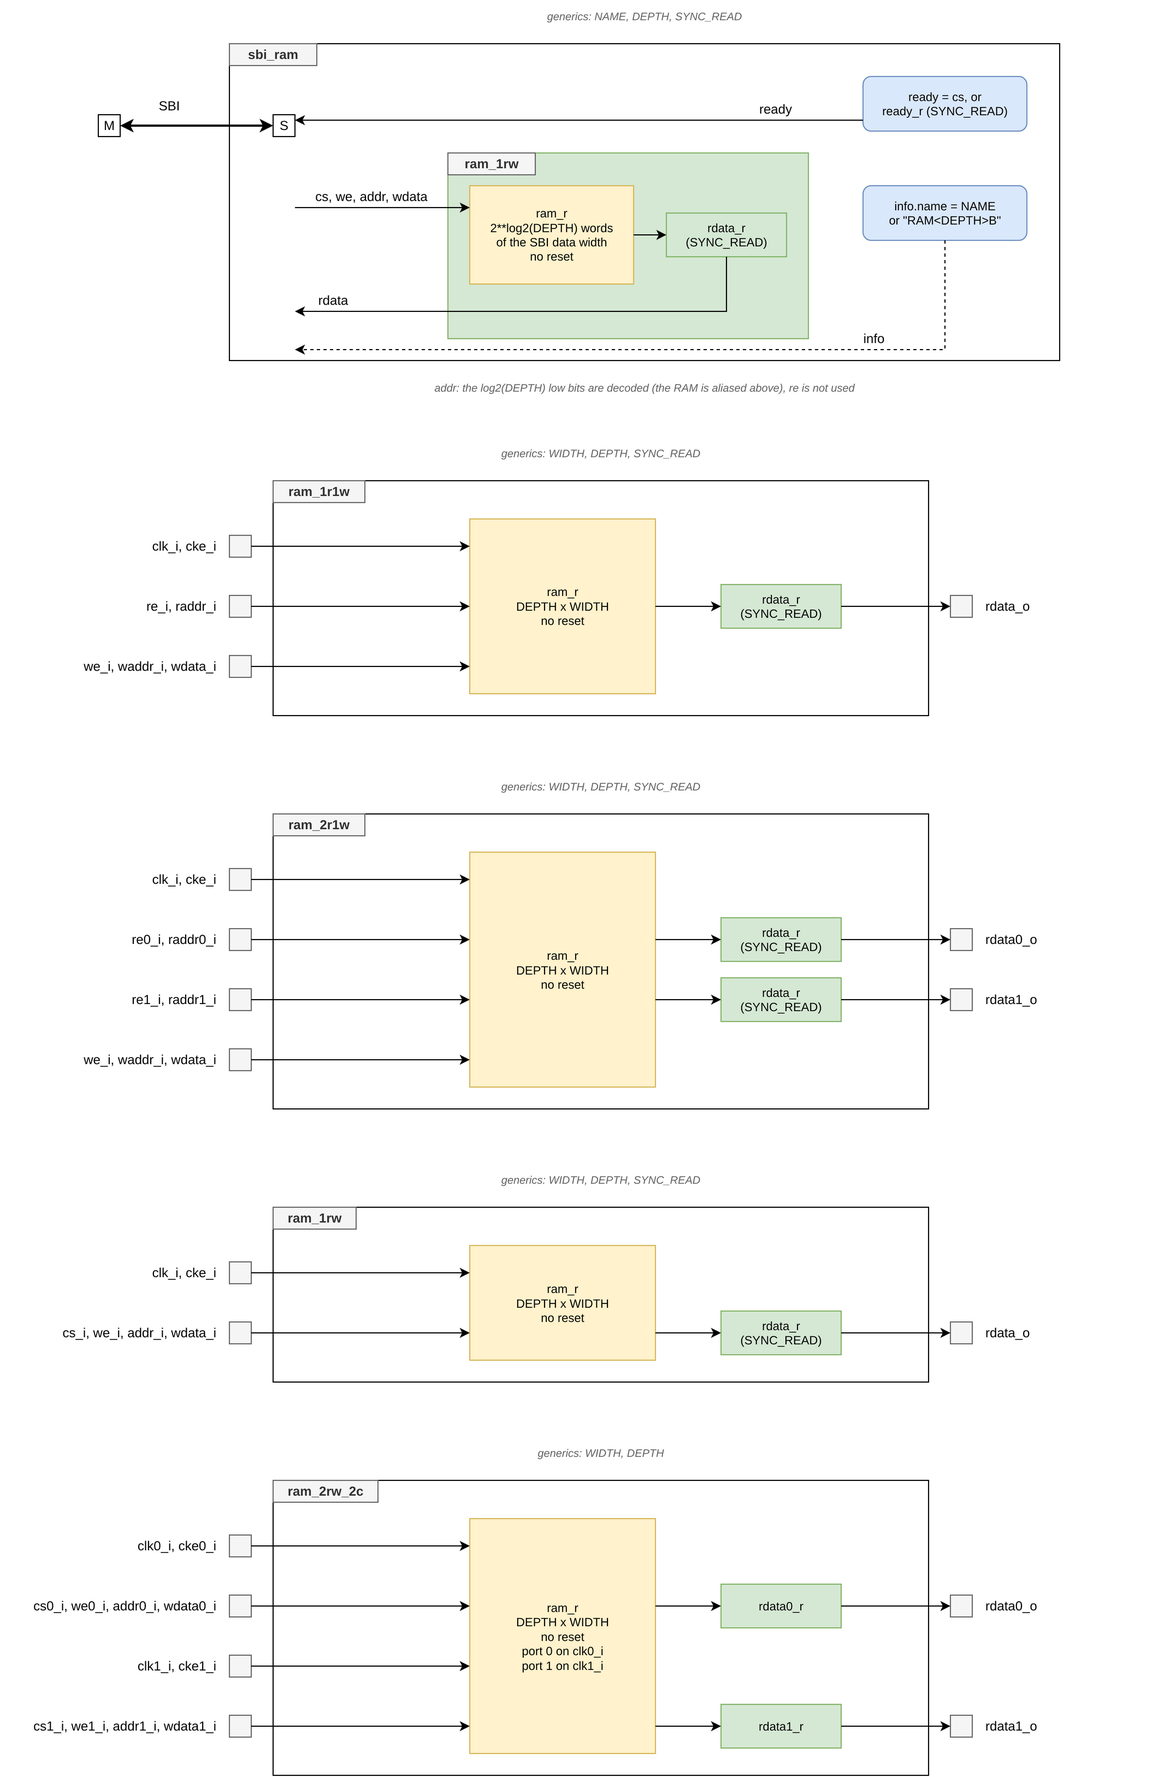
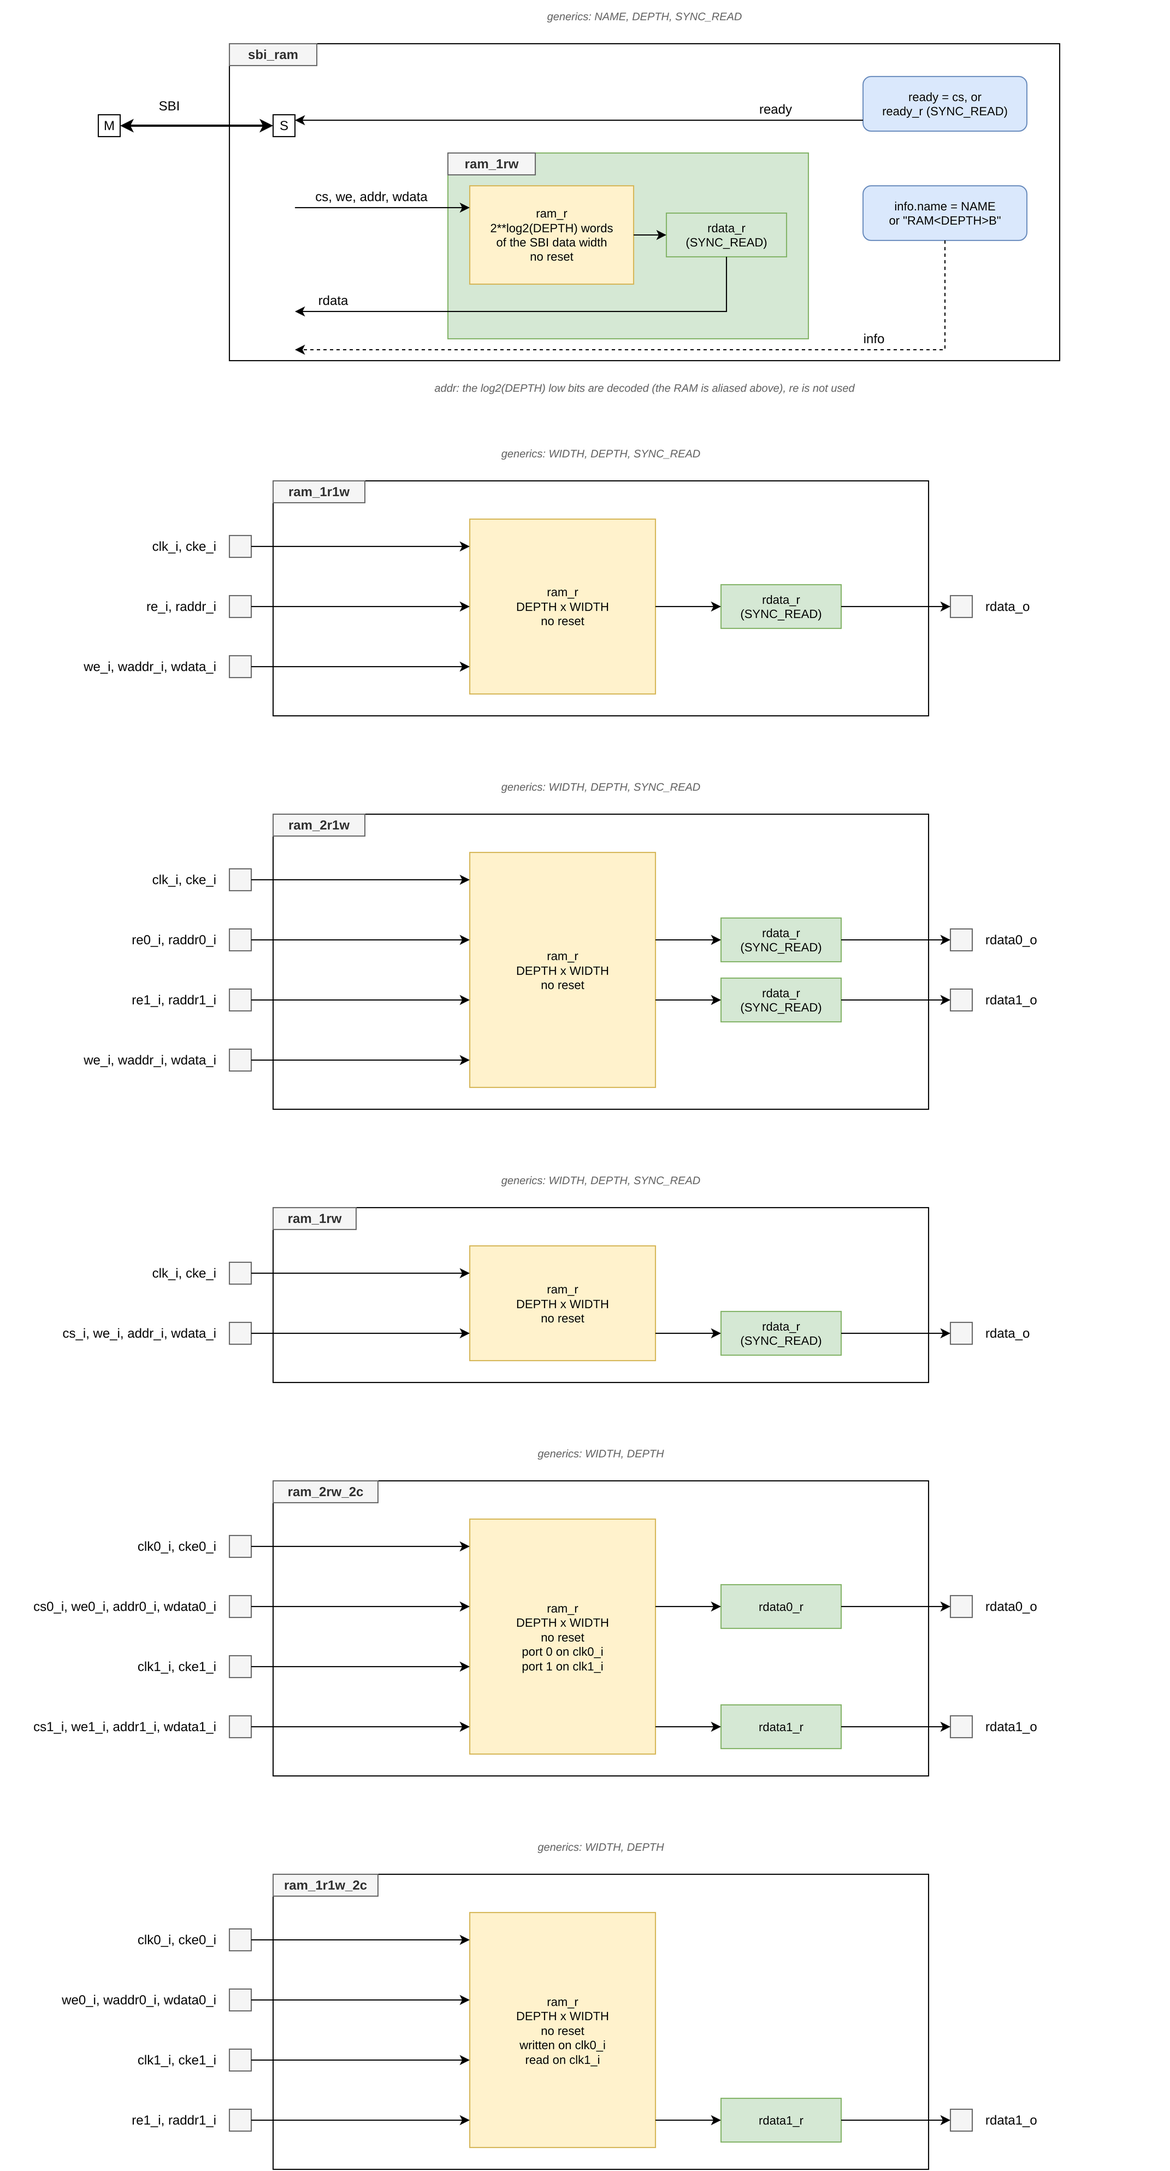
RAM - README : ram_1r1w_2c (interfaces, two processes, collision, timing constraint of the write -> read register path, figures, tb_ram_1r1w_2c scenarios and targets), collision wording of ram_2rw_2c (README and header), yosys_synth >= 1.1.1 only for syn_ram_2rw_2c_*, block diagram

diff --git a/README.md b/README.md
@@ -62,9 +62,10 @@ This IP gathers the RAMs of Asylum. They are plain VHDL arrays, written so that 
 - **`ram_2r1w`**: two read ports and one write port (a register file);
 - **`ram_1rw`**: a single port, one address for the read and the write;
 - **`sbi_ram`**: `ram_1rw` as a target of the SBI bus (the simple bus of Asylum), a data memory for a CPU;
-- **`ram_2rw_2c`**: two read / write ports, **each with its own clock** (a true dual-port block RAM), the storage of a dual-clock FIFO.
+- **`ram_1r1w_2c`**: one write port and one registered read port, **each with its own clock** (a simple dual-port block RAM), the storage of a dual-clock FIFO;
+- **`ram_2rw_2c`**: two read / write ports, **each with its own clock** (a true dual-port block RAM), for two writers on two clocks.
 
-`ram_1r1w`, `ram_2r1w` and `ram_1rw` share the same generics (`WIDTH`, `DEPTH`, `SYNC_READ`) and a clock enable; `ram_2rw_2c` has `WIDTH`, `DEPTH`, and a clock, a clock enable and a chip select per port.
+`ram_1r1w`, `ram_2r1w` and `ram_1rw` share the same generics (`WIDTH`, `DEPTH`, `SYNC_READ`) and a clock enable; `ram_1r1w_2c` and `ram_2rw_2c` have `WIDTH`, `DEPTH`, and a clock, a clock enable and a chip select per port.
 
 ## Features
 
@@ -74,12 +75,13 @@ This IP gathers the RAMs of Asylum. They are plain VHDL arrays, written so that 
 - Synchronous write on the rising edge of `clk_i`, clock enable `cke_i` on every port
 - No reset of the memory: block RAM and distributed RAM friendly
 - `sbi_ram`: data width of the SBI bus, zero wait state (`SYNC_READ = false`) or one wait state (`SYNC_READ = true`), its name in `sbi_tgt_o.info` (`NAME`, or `RAM<DEPTH>B`)
+- `ram_1r1w_2c`: write port on `clk0_i`, registered read port on `clk1_i` (unrelated clocks), one process per clock: the template every synthesis tool infers
 - `ram_2rw_2c`: two ports on two unrelated clocks, each one reads (registered, one cycle of latency) or writes one word per cycle of its clock; `rdata` unchanged by a write (no change)
 - Simulation check that `DEPTH` is a power of 2
 
 ## Block Diagram
 
-![Block diagram of sbi_ram, ram_1r1w, ram_2r1w, ram_1rw and ram_2rw_2c](doc/ram-Overview.png)
+![Block diagram of sbi_ram, ram_1r1w, ram_2r1w, ram_1rw, ram_2rw_2c and ram_1r1w_2c](doc/ram-Overview.png)
 
 ## Getting Started
 
@@ -158,7 +160,7 @@ The word width of `sbi_ram` is the width of the `wdata` field of the SBI signals
 
 ### RAMs without bus
 
-[hdl/ram_1r1w.vhd](hdl/ram_1r1w.vhd), [hdl/ram_2r1w.vhd](hdl/ram_2r1w.vhd), [hdl/ram_1rw.vhd](hdl/ram_1rw.vhd), [hdl/ram_2rw_2c.vhd](hdl/ram_2rw_2c.vhd). Every RAM has `clk_i` and `cke_i` (clock enable of the write and of the registered read), `ram_2rw_2c` one `clk<p>_i` and `cke<p>_i` per port `<p>` (0 or 1); the addresses are `std_logic_vector(log2(DEPTH)-1 downto 0)`, the data `std_logic_vector(WIDTH-1 downto 0)`.
+[hdl/ram_1r1w.vhd](hdl/ram_1r1w.vhd), [hdl/ram_2r1w.vhd](hdl/ram_2r1w.vhd), [hdl/ram_1rw.vhd](hdl/ram_1rw.vhd), [hdl/ram_2rw_2c.vhd](hdl/ram_2rw_2c.vhd), [hdl/ram_1r1w_2c.vhd](hdl/ram_1r1w_2c.vhd). Every RAM has `clk_i` and `cke_i` (clock enable of the write and of the registered read), `ram_2rw_2c` one `clk<p>_i` and `cke<p>_i` per port `<p>` (0 or 1); the addresses are `std_logic_vector(log2(DEPTH)-1 downto 0)`, the data `std_logic_vector(WIDTH-1 downto 0)`.
 
 | Name | Direction | RAM | Description |
 |------|-----------|-----|-------------|
@@ -168,6 +170,8 @@ The word width of `sbi_ram` is the width of the `wdata` field of the SBI signals
 | `we_i`, `waddr_i`, `wdata_i` | in | `ram_1r1w`, `ram_2r1w` | Write port: write enable, address, data |
 | `cs_i`, `we_i` | in | `ram_1rw` | Chip select, write enable: write when `cs_i = we_i = 1`, registered read when `cs_i = 1` and `we_i = 0` |
 | `addr_i`, `wdata_i`, `rdata_o` | in, in, out | `ram_1rw` | Address of the read and of the write, write data, read data |
+| `clk0_i`, `cke0_i`, `we0_i`, `waddr0_i`, `wdata0_i` | in | `ram_1r1w_2c` | Write port: clock, clock enable, write enable, address, data |
+| `clk1_i`, `cke1_i`, `re1_i`, `raddr1_i`, `rdata1_o` | in (`rdata1_o` out) | `ram_1r1w_2c` | Read port: clock, clock enable, read enable, address, registered read data |
 | `clk0_i`, `cke0_i` | in | `ram_2rw_2c` | Clock and clock enable of port 0 |
 | `cs0_i`, `we0_i` | in | `ram_2rw_2c` | Chip select, write enable of port 0: write when `cs0_i = we0_i = 1`, registered read when `cs0_i = 1` and `we0_i = 0` |
 | `addr0_i`, `wdata0_i`, `rdata0_o` | in, in, out | `ram_2rw_2c` | Address, write data, registered read data of port 0 |
@@ -177,9 +181,9 @@ The word width of `sbi_ram` is the width of the `wdata` field of the SBI signals
 
 | Name | Type | Default | Description |
 |------|------|---------|-------------|
-| `WIDTH` | natural | `32` | `ram_1r1w`, `ram_2r1w`, `ram_1rw`, `ram_2rw_2c`: word width in bits |
+| `WIDTH` | natural | `32` | `ram_1r1w`, `ram_2r1w`, `ram_1rw`, `ram_2rw_2c`, `ram_1r1w_2c`: word width in bits |
 | `DEPTH` | natural | `32` (`sbi_ram`: `256`) | Number of words, a power of 2 (simulation assertion of severity `error` otherwise) |
-| `SYNC_READ` | boolean | `false` | `false`: combinational read; `true`: registered read (`sbi_ram`: one wait state). Not on `ram_2rw_2c` (always registered) |
+| `SYNC_READ` | boolean | `false` | `false`: combinational read; `true`: registered read (`sbi_ram`: one wait state). Not on `ram_2rw_2c` and `ram_1r1w_2c` (always registered) |
 | `NAME` | string | `""` | `sbi_ram` only: name in `sbi_tgt_o.info`; `""` gives `RAM<DEPTH>B` (e.g. `RAM256B`) |
 
 The address has `log2(DEPTH)` bits (rounded down): with a `DEPTH` that is not a power of 2, the words `2**log2(DEPTH)` to `DEPTH-1` cannot be addressed (`sbi_ram` instantiates `2**log2(DEPTH)` words).
@@ -198,6 +202,8 @@ Figures of the `syn_*` targets (`make nonreg_syn`, see [Targets](#targets)): eac
 | `syn_ram_1rw_256x8b_read_sync` | 2 | 32 | 8 | 0 | 0 | 0 | 0 | 79441.19 | 21.164 |
 | `syn_sbi_ram_32x8b_read_async` | 1 | 4 | 0 | 0 | 0 | 0 | 0 | 10013.35 | 2.668 |
 | `syn_sbi_ram_256x8b_read_sync` | 4 | 32 | 9 | 0 | 0 | 0 | 0 | 79422.42 | 21.159 |
+| `syn_ram_1r1w_2c_32x32b` | 2 | 24 | 32 | 0 | 0 | 0 | 0 | 40963.00 | 10.913 |
+| `syn_ram_1r1w_2c_256x8b` | 13 | 48 | 8 | 0 | 0 | 0 | 0 | 81109.00 | 21.608 |
 | `syn_ram_2rw_2c_32x32b` ⁴ | 4 | 0 | 0 | 0 | 0 | 1 | 0 | — | — |
 | `syn_ram_2rw_2c_256x8b` ⁴ | 4 | 0 | 0 | 0 | 0 | 0.5 | 0 | — | — |
 
@@ -207,7 +213,7 @@ Figures of the `syn_*` targets (`make nonreg_syn`, see [Targets](#targets)): eac
 
 ³ Area in thousands of NAND2 gate equivalents (`sky130_fd_sc_hd__nand2_1` = 3.7536 µm²).
 
-⁴ `ram_2rw_2c`: on Artix-7 the memory is one true dual-port block RAM (`RAMB18E1` for 256x8, `RAMB36E1` for 32x32, the BRAM column counts RAMB36 equivalents), its two ports on the two clocks; the 4 LUTs are the `INV` / enables of the ports. In the sky130 flow a memory written on two clocks cannot become flip-flops (a flip-flop has one clock): it needs a dual-port SRAM macro, which the flow does not have, so the memory stays a `$mem_v2` cell of unknown area (no figure). The GHDL plugin gives the second write port a priority over the first one, which Yosys 0.33 only accepts between ports of the same clock: the `syn_*` targets need `asylum:utils:yosys_synth` >= 1.1.1 of [asylum-utils-generators](https://github.com/deuskane/asylum-utils-generators), which clears this priority after the GHDL import.
+⁴ `ram_2rw_2c`: on Artix-7 the memory is one true dual-port block RAM (`RAMB18E1` for 256x8, `RAMB36E1` for 32x32, the BRAM column counts RAMB36 equivalents), its two ports on the two clocks; the 4 LUTs are the `INV` / enables of the ports. In the sky130 flow a memory written on two clocks cannot become flip-flops (a flip-flop has one clock): it needs a dual-port SRAM macro, which the flow does not have, so the memory stays a `$mem_v2` cell of unknown area (no figure; `yosys_synth.py` prints a `WARNING` with the cells of unknown area). The GHDL plugin gives the second write port a priority over the first one, which Yosys 0.33 only accepts between ports of the same clock: the `syn_ram_2rw_2c_*` targets, and only them, need `asylum:utils:yosys_synth` >= 1.1.1 of [asylum-utils-generators](https://github.com/deuskane/asylum-utils-generators), which clears this priority after the GHDL import. `ram_1r1w_2c` (one write port) needs none of this: Yosys maps it as `ram_1r1w` with a registered read (LUTRAM and the read register on Artix-7, flip-flops in sky130).
 
 ## Theory of Operation
 
@@ -219,6 +225,7 @@ Figures of the `syn_*` targets (`make nonreg_syn`, see [Targets](#targets)): eac
 | [hdl/ram_2r1w.vhd](hdl/ram_2r1w.vhd) | `ram_2r1w` | Two read ports, one write port |
 | [hdl/ram_1rw.vhd](hdl/ram_1rw.vhd) | `ram_1rw` | Single port |
 | [hdl/ram_2rw_2c.vhd](hdl/ram_2rw_2c.vhd) | `ram_2rw_2c` | Two read / write ports, one clock per port |
+| [hdl/ram_1r1w_2c.vhd](hdl/ram_1r1w_2c.vhd) | `ram_1r1w_2c` | One write port, one registered read port, one clock per port |
 | [hdl/sbi_ram.vhd](hdl/sbi_ram.vhd) | `sbi_ram` | `ram_1rw` on the SBI bus, ready logic, target name |
 | [hdl/ram_pkg.vhd](hdl/ram_pkg.vhd) | `ram_pkg` | Components |
 
@@ -243,9 +250,15 @@ Figures of the `syn_*` targets (`make nonreg_syn`, see [Targets](#targets)): eac
 - The two clocks may be unrelated: each port only depends on its own clock. The read data of a port change on a rising edge of its clock only (checked by the testbench).
 - Simultaneous access of the **same address** by both ports (the user avoids it):
   - write on both ports at the same time: in simulation the write of port 1 wins (last assignment of the process); on a block RAM the word is undefined;
-  - read on one port while the other one writes the same word: in simulation the read returns the old word; on a block RAM the read data are undefined (collision).
+  - read on one port while the other one writes the same word: in simulation the read returns the old word; on a block RAM the read data are undefined (and may be metastable: the path from the RAM to the read register crosses the clock domains), the word written is kept when the writing port does not read (no change mode, as here).
 - A read during a write of the other port at another address returns the stored word (scenario `read_during_write`).
-- `fifo_async` of [asylum-component-fifo](https://github.com/deuskane/asylum-component-fifo) uses port 0 to write on the write clock and port 1 to read on the read clock, and never reads a word that is being written.
+- With a single writer, use `ram_1r1w_2c` (below): simpler, and the template every tool infers.
+
+### `ram_1r1w_2c` (two clocks, one writer)
+
+- Two processes: the write process on `clk0_i` writes `wdata0_i` at `waddr0_i` when `cke0_i = we0_i = 1` (the only driver of `ram_r`); the read process on `clk1_i` loads `ram_r(raddr1_i)` into `rdata1_r` when `cke1_i = re1_i = 1`, `rdata1_o` is held otherwise. The simple dual-port template of the synthesis tools (one write clock, one read clock).
+- Read of the address written at the same time (collision): the old word in simulation; on a block RAM or a LUTRAM the read data are undefined and may be metastable, the word written is kept. A user that may read a word being written discards the read data (`fifo_async` of [asylum-component-fifo](https://github.com/deuskane/asylum-component-fifo): while the FIFO is empty it reads the address of the next write, with `m_axis_tvalid_o = 0`, and reads it again once the write is seen through its synchronizers).
+- Timing: the path from the RAM (written on `clk0_i`) to `rdata1_r` (on `clk1_i`) crosses the clock domains: declare it as a false path, or as max delay of one `clk1_i` period, as the user's protocol allows (in `fifo_async`, a word is read at least one read clock period after its write).
 
 ### `sbi_ram`
 
@@ -272,6 +285,8 @@ This IP has no software-visible registers: every SBI address of `sbi_ram` below 
 | [sim/ram/tb_ram.vhd](sim/ram/tb_ram.vhd) | `ram_1r1w`, `ram_2r1w`, `ram_1rw`, `sbi_ram` | Self-checking UVVM testbench, generics `TESTS_LIST` (scenarios, see below), `WIDTH`, `DEPTH` (power of 2, >= 16), `SYNC_READ`. The three RAMs without bus receive the same accesses (`ram_1rw`: `cs = we or re0`, address = write address during a write, else read address 0) and share one reference model: every cycle the inputs are driven on the falling edge of the clock and the read data of every port are checked a quarter period later, against the content (combinational read) or the word registered by the last enabled read. `sbi_ram` is driven by the SBI BFM (`bitvis_vip_sbi`); a monitor measures the wait states of every access and raises an error if `ready` is set without `cs`. A second `sbi_ram` with `NAME = "RAM0"` is only used for its name |
 
 | [sim/ram_2rw_2c/tb_ram_2rw_2c.vhd](sim/ram_2rw_2c/tb_ram_2rw_2c.vhd) | `ram_2rw_2c` | Self-checking UVVM testbench, generics `TESTS_LIST`, `WIDTH`, `DEPTH` (power of 2, >= 2), `CLK0_PERIOD` and `CLK1_PERIOD` (ns, the clocks of the two ports). Each port is driven on the falling edges of its own clock (one access, then idle) and its read data checked on the next falling edge; the `concurrent` and `read_during_write` scenarios drive both ports at the same time, each on its own edges. A monitor checks that the read data of a port change on a rising edge of its own clock only |
+
+| [sim/ram_1r1w_2c/tb_ram_1r1w_2c.vhd](sim/ram_1r1w_2c/tb_ram_1r1w_2c.vhd) | `ram_1r1w_2c` | Self-checking UVVM testbench, generics `TESTS_LIST`, `WIDTH`, `DEPTH` (power of 2, >= 2), `CLK0_PERIOD`, `CLK1_PERIOD` (ns): the port helpers of `tb_ram_2rw_2c_bfm_pkg` (port 0 drives the write port, port 1 the read port), a monitor of `rdata1_o` (changes on a rising edge of `clk1` only) |
 
 Scenarios in `tb_ram_<name>_pkg`, cycle, model and SBI helpers in [tb_ram_bfm_pkg](sim/ram/tb_ram_bfm_pkg.vhd), names and dispatch in [tb_ram_tests_pkg](sim/ram/tb_ram_tests_pkg.vhd); for `ram_2rw_2c`, in `tb_ram_2rw_2c_<name>_pkg`, [tb_ram_2rw_2c_bfm_pkg](sim/ram_2rw_2c/tb_ram_2rw_2c_bfm_pkg.vhd) and [tb_ram_2rw_2c_tests_pkg](sim/ram_2rw_2c/tb_ram_2rw_2c_tests_pkg.vhd).
 
@@ -306,6 +321,15 @@ With `SYNC_READ = false` the read data are checked on every cycle (no registered
 | `read_during_write` | 64 | One port reads the same address on every cycle while the other one writes every other address: the read word stays the old one; then the new words are read back. Port 1 reads while port 0 writes, then the reverse |
 | `enables` | 18 | On each port: `cke = 0` or `cs = 0` blocks the write and the read (`rdata` held), a write keeps `rdata` (no change) |
 
+`tb_ram_1r1w_2c`, reference configuration (16 words of 8 bits, write clock 10 ns, read clock 13 ns):
+
+| Name | Checks | Description |
+|------|--------|-------------|
+| `write_read` | 32 | Every address written on `clk0`, read back on `clk1`, two patterns |
+| `concurrent` | 16 | Both ports busy at the same time: one word written per `clk0` cycle, one word read per `clk1` cycle, each word read after its write |
+| `read_during_write` | 28 | The read port reads the same address on every cycle while the write port writes every other address (old word), then the new words read back |
+| `enables` | 5 | `cke0 = 0` or `we0 = 0` blocks the write; `cke1 = 0` or `re1 = 0` holds `rdata1_o` |
+
 ### Targets
 
 | Target | Toplevel | Description |
@@ -321,8 +345,13 @@ With `SYNC_READ = false` the read data are checked on every cycle (no registered
 | `sim_2rw_2c_64x32b_port0_fast` | `tb_ram_2rw_2c` | `WIDTH = 32`, `DEPTH = 64`, `clk0` 7 ns, `clk1` 23 ns, every scenario (695 checks) |
 | `sim_2rw_2c_16x8b_port1_fast` | `tb_ram_2rw_2c` | `WIDTH = 8`, `DEPTH = 16`, `clk0` 23 ns, `clk1` 7 ns, every scenario (182 checks) |
 | `sim_2rw_2c_2x8b_same_clock` | `tb_ram_2rw_2c` | `WIDTH = 8`, `DEPTH = 2`, both clocks of 10 ns with their edges together, every scenario (35 checks) |
+| `sim_1r1w_2c_16x8b` | `tb_ram_1r1w_2c` | `ram_1r1w_2c` reference configuration (`WIDTH = 8`, `DEPTH = 16`, clocks 10 / 13 ns): build and elaboration only |
+| `sim_1r1w_2c_16x8b_<name>` | `tb_ram_1r1w_2c` | One target per scenario: `_write_read`, `_concurrent`, `_read_during_write`, `_enables` (81 checks in all) |
+| `sim_1r1w_2c_64x32b_write_fast` | `tb_ram_1r1w_2c` | `WIDTH = 32`, `DEPTH = 64`, write clock 7 ns, read clock 23 ns, every scenario (281 checks) |
+| `sim_1r1w_2c_16x8b_read_fast` | `tb_ram_1r1w_2c` | `WIDTH = 8`, `DEPTH = 16`, write clock 23 ns, read clock 7 ns, every scenario (122 checks) |
+| `sim_1r1w_2c_2x8b_same_clock` | `tb_ram_1r1w_2c` | `WIDTH = 8`, `DEPTH = 2`, both clocks of 10 ns with their edges together, every scenario (15 checks) |
 | `lint_ghdl` | `asylum.sbi_ram_wrapper` | GHDL `-Wall` analysis of every RAM and of [syn/sbi_ram_wrapper.vhd](syn/sbi_ram_wrapper.vhd) (`sbi_ram` with flat SBI ports), elaboration of `sbi_ram_wrapper` |
-| `lint_ghdl_synth_<ram>_<config>` | the RAM, or `sbi_ram_wrapper` | `ghdl --synth` check (no latch, synthesizable) of `ram_1r1w`, `ram_2r1w`, `ram_1rw`: `32x32b_read_async` (default generics), `256x8b_read_sync`; of `ram_2rw_2c`: `32x32b` (default generics), `256x8b`; of `sbi_ram`: `32x8b_read_async`, `256x8b_read_sync` |
+| `lint_ghdl_synth_<ram>_<config>` | the RAM, or `sbi_ram_wrapper` | `ghdl --synth` check (no latch, synthesizable) of `ram_1r1w`, `ram_2r1w`, `ram_1rw`: `32x32b_read_async` (default generics), `256x8b_read_sync`; of `ram_2rw_2c` and `ram_1r1w_2c`: `32x32b` (default generics), `256x8b`; of `sbi_ram`: `32x8b_read_async`, `256x8b_read_sync` |
 
 The reference configuration has a build-only base target and one target per scenario: one CI job per scenario, a failure is isolated. Every other configuration has one target that runs the whole list: the `TEST <i>/<N>` header names a failing scenario. FuseSoC replaces the `parameters` list of an inherited target, so each target repeats the generics of its configuration.
 
@@ -366,12 +395,12 @@ Outside the CI, GHDL writes a waveform `dut.fst`.
 |------|------------|---------|
 | `asylum:utils:pkg` | [asylum-utils-pkg](https://github.com/deuskane/asylum-utils-pkg) | `math_pkg` (`log2`), `sbi_pkg` (SBI records, `to_sbi_name`); the testbench needs >= 1.10.0 (`string_pkg` lists of `TESTS_LIST`) |
 | `asylum:utils:ghdl_synth` | [asylum-utils-generators](https://github.com/deuskane/asylum-utils-generators) | `ghdl --synth` check of the `lint_ghdl_synth_*` targets |
-| `asylum:utils:yosys_synth` | [asylum-utils-generators](https://github.com/deuskane/asylum-utils-generators) | Yosys synthesis of the `syn_*` targets (Artix-7 and sky130), >= 1.1.1 (memories written on two clocks) |
+| `asylum:utils:yosys_synth` | [asylum-utils-generators](https://github.com/deuskane/asylum-utils-generators) | Yosys synthesis of the `syn_*` targets (Artix-7 and sky130); >= 1.1.1 for `syn_ram_2rw_2c_*` (a memory written on two clocks) |
 | `bitvis:verification:uvvm` | [UVVM](https://github.com/UVVM/UVVM) | Verification library and SBI BFM |
 
 The synthesis checks use the dependency-free cores `ghdl_synth` and `yosys_synth`, not `asylum:utils:generators`: the generators depend on the FIFO, which depends on this IP.
 
-Used by [asylum-component-fifo](https://github.com/deuskane/asylum-component-fifo) (`ram_1r1w` in `fifo_sync`, `ram_2rw_2c` in `fifo_async`) and [asylum-component-stack](https://github.com/deuskane/asylum-component-stack) (`ram_1r1w`), and [asylum-soc-picosoc](https://github.com/deuskane/asylum-soc-picosoc) (`sbi_ram`); the register banks generated by regtool use it through the FIFO. All the IPs: [asylum-project](https://github.com/deuskane/asylum-project).
+Used by [asylum-component-fifo](https://github.com/deuskane/asylum-component-fifo) (`ram_1r1w` in `fifo_sync`, `ram_1r1w_2c` in `fifo_async`) and [asylum-component-stack](https://github.com/deuskane/asylum-component-stack) (`ram_1r1w`), and [asylum-soc-picosoc](https://github.com/deuskane/asylum-soc-picosoc) (`sbi_ram`); the register banks generated by regtool use it through the FIFO. All the IPs: [asylum-project](https://github.com/deuskane/asylum-project).
 
 ## License
 
